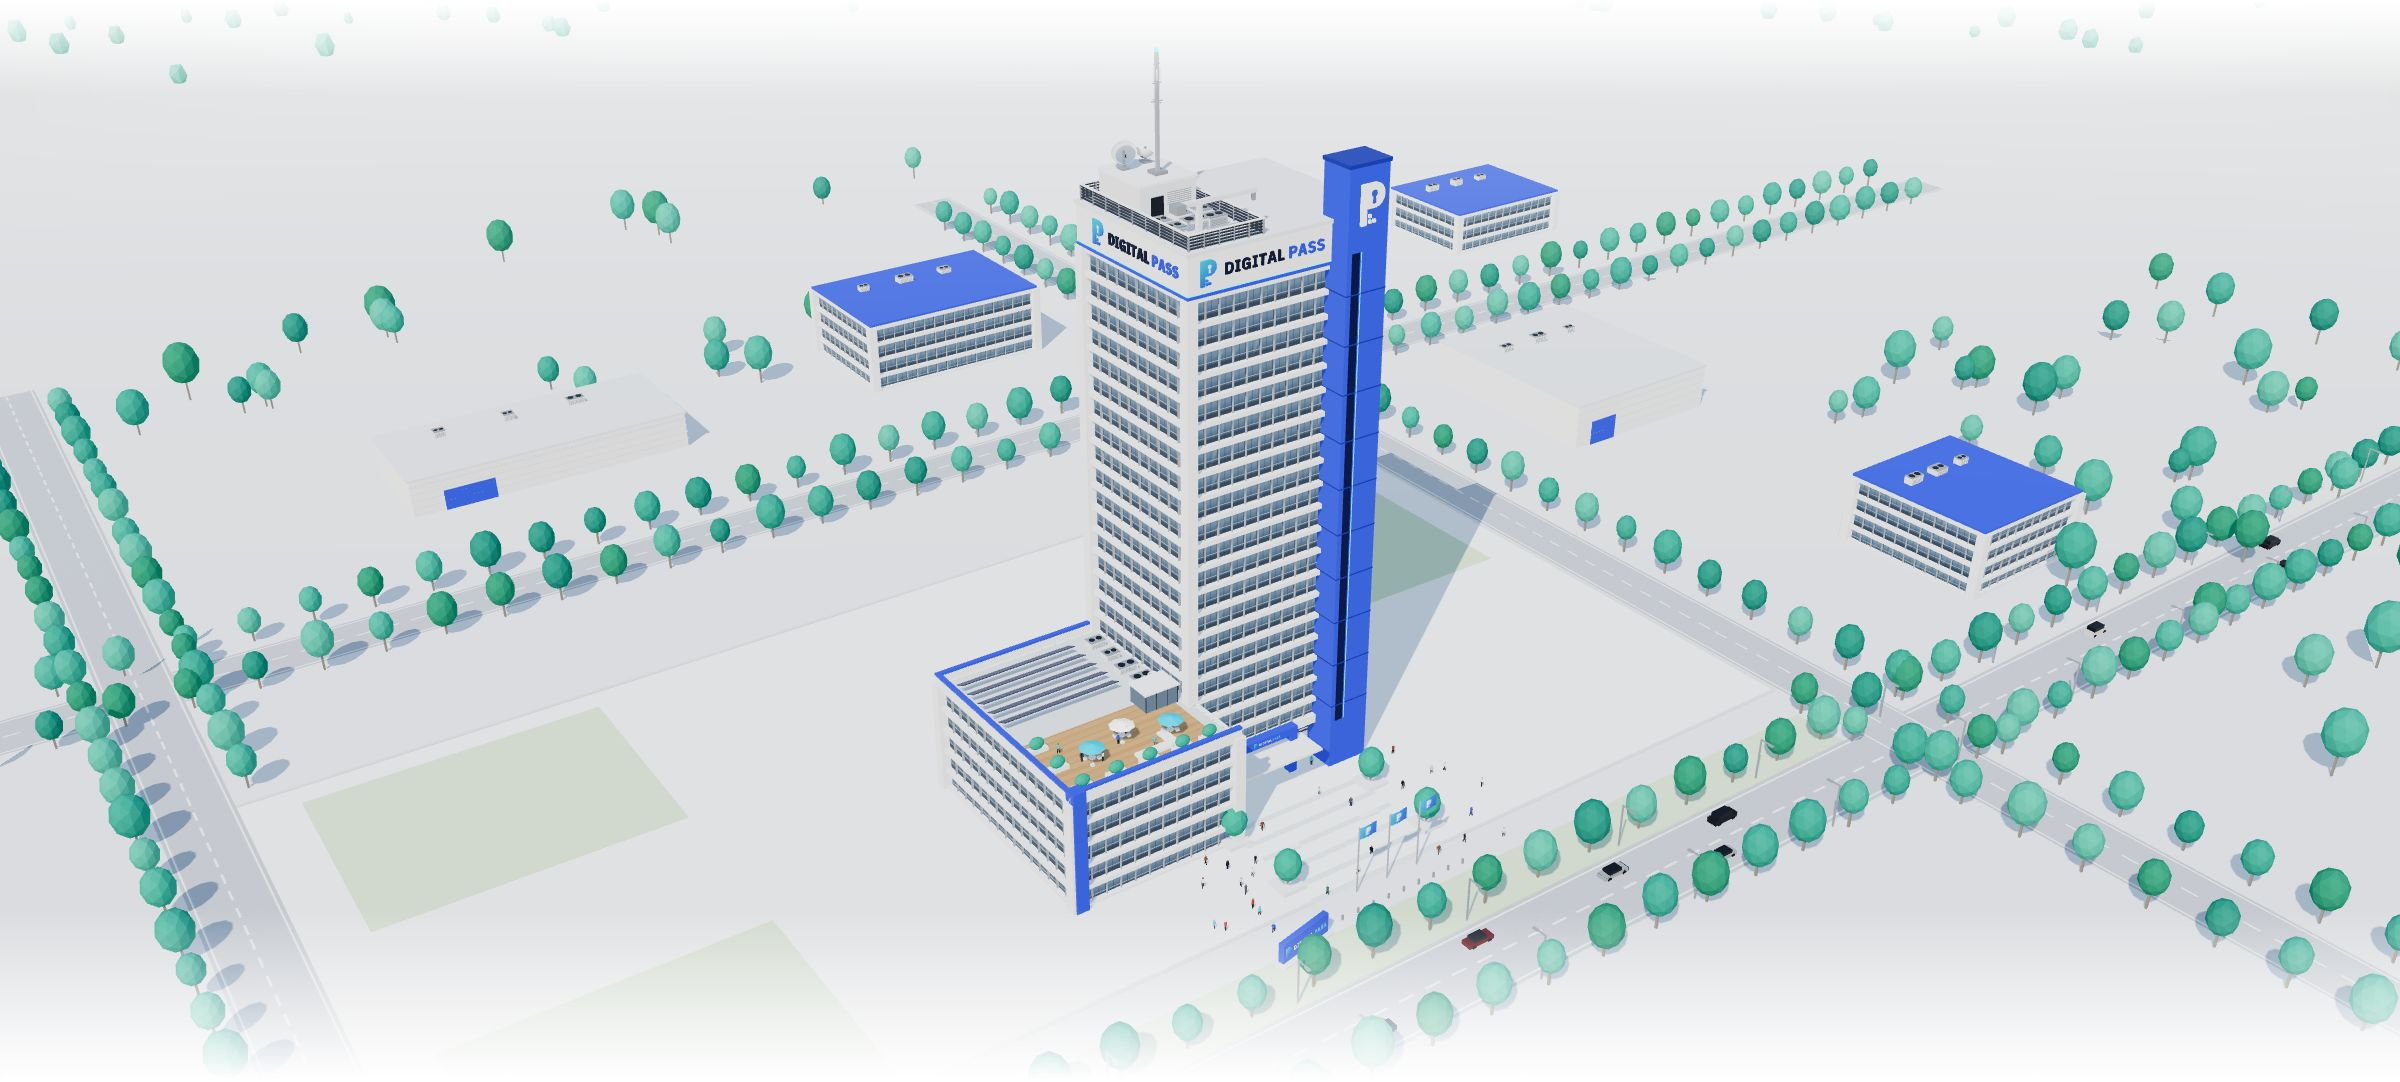
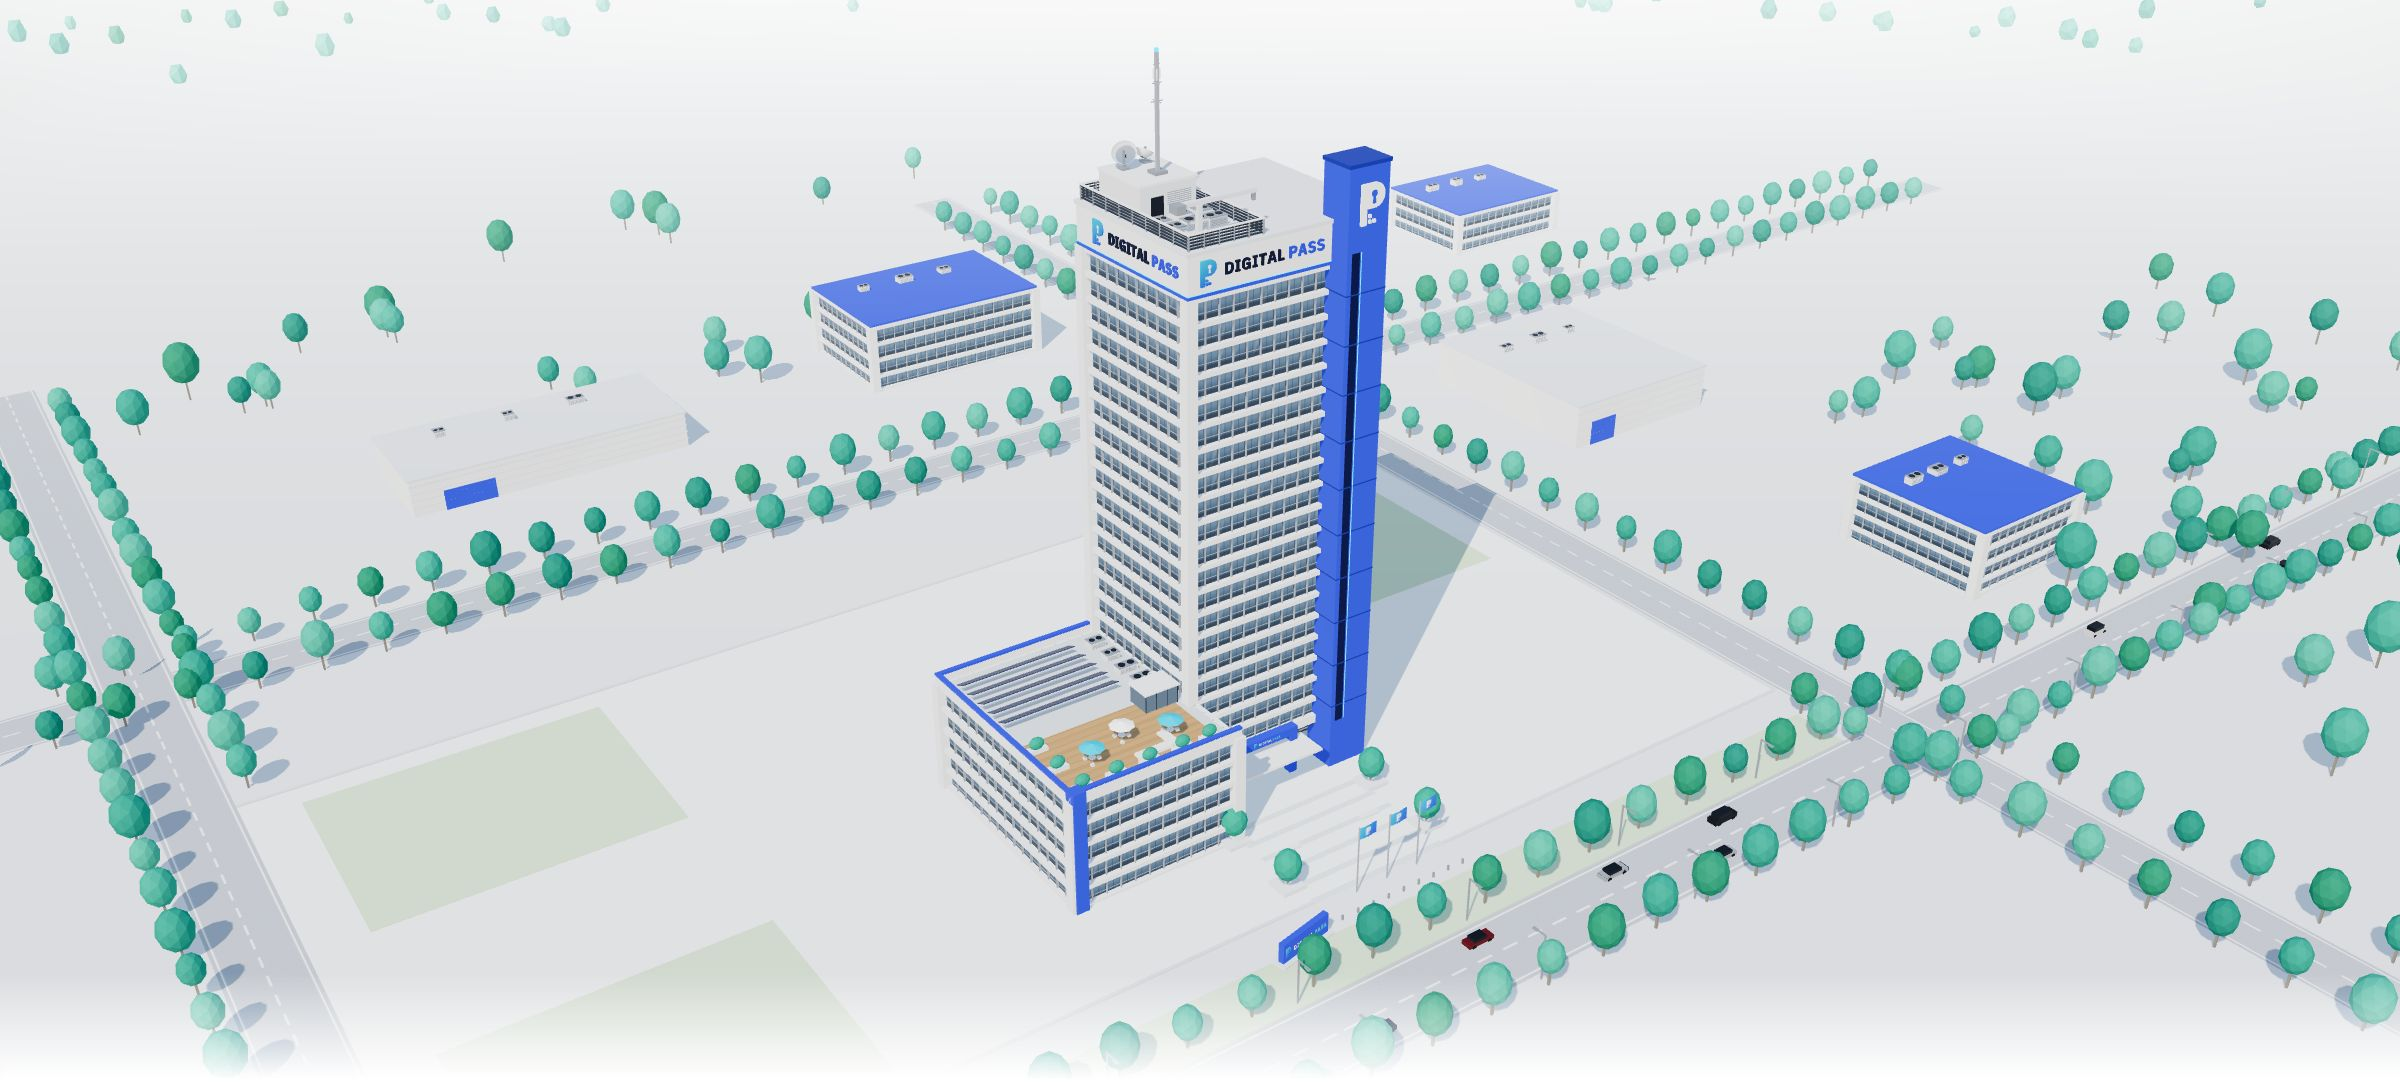
HQ model: solid from every side, no people, no veil over the top
Per the owner's screenshot (seen from behind, the spine top looked
see-through and the ground floor looked hollow):

- The tower is solid when seen from any side: a body behind the glass
  closed at the roof (the tour had left it hollow for its interiors), the
  lift spine as a closed blue volume (its back above the roof was
  missing), and the ground floor as a tinted glass base on all four sides
  with frames on the back and left like the front.
- No people anywhere in the model (setPeople).
- The white veil at the top of the stage is gone (it washed out a
  zoomed-in tower and looked like transparency); the far ground fades in
  the mist instead (closer mist), and the bottom fade is thinner.
- Zooming in aims a little higher so the whole tower stays in the frame.
- window.__hq.view() for screenshots and tests; new posters.

Claude-Session: https://claude.ai/code/session_01TGjpk8645mFjhXBmD6ejT9

diff --git a/assets/js/hq/site.js b/assets/js/hq/site.js
@@ -365,7 +365,7 @@ function campus(K, F, D, group, R, keepClear) {
 }
 
 /* ---------- the headquarters ---------- */
-function tower(K, KL, F, group, T, R) {
+function tower(K, KL, F, group, T, R, solid = false) {
   const { TW, TD, topY, fascia: fb } = HQ, S = HQ.spine, L = HQ.lift;
   floorsBlock(K, F, R, { w: TW, d: TD, floors: 20, y0: 8, cut: [S.x0, S.x1] });
 
@@ -467,6 +467,24 @@ function tower(K, KL, F, group, T, R) {
   const ps = 0.42; K.add(T.logoLight, M.logo, ex0 - T.logoLight.userData.width * ps / 2, 8.25 - T.logoLight.userData.height * ps / 2, TD / 2 + 2.01, { sx: ps, sy: ps, sz: ps });
   mb(K, 16, 0.45, 6, C.white, ex0, 6.2, TD / 2 + 3.6); lb(K, 14, 0.06, 0.25, C.led, ex0, 5.95, TD / 2 + 6.2);
   for (let k = 0; k < 4; k++) K.add(G.disc(), M.glow, ex0 - 5.4 + k * 3.6, 5.96, TD / 2 + 3.6, { rx: Math.PI / 2, sx: 0.22, sy: 0.22, color: 0xfff4dc, cast: false, receive: false });
+
+  // ---- solid (the model seen from outside, from every side): fill what the tour left hollow for its interiors ----
+  if (solid) {
+    const box = (x0, x1, y0, y1, z0, z1, mat) => {
+      const m = new THREE.Mesh(new THREE.BoxGeometry(x1 - x0, y1 - y0, z1 - z0), mat);
+      m.position.set((x0 + x1) / 2, (y0 + y1) / 2, (z0 + z1) / 2); m.receiveShadow = true; group.add(m);
+    };
+    // the body behind the glass, closed at the roof
+    box(-TW / 2 + 1, TW / 2 - 1, fb, HQ.deckY - 0.03, -TD / 2 + 1, TD / 2 - 1, std({ color: 0x9aa7b4, roughness: 0.6 }));   // behind the glass (0.6 in)
+    // the ground floor reads as a tinted glass base on all four sides, framed like the front
+    const lg = std({ color: 0x86a2bd, roughness: 0.08, metalness: 0.6, envMapIntensity: 1.3 });
+    box(lx0 + 0.02, lx1 - 0.1, 0.07, fb, lz0 + 0.02, lz1 - 0.1, lg); box(ax0 + 0.1, lx1 - 0.1, 0.07, fb, lz1 - 0.12, az - 0.02, lg);
+    for (let k = 0; k <= 10; k++) fr(0.14, fb, 0.22, lx0 + k * (lx1 - lx0) / 10, fb / 2, lz0 - 0.06);
+    for (let k = 0; k <= 8; k++) fr(0.22, fb, 0.14, lx0 - 0.06, fb / 2, lz0 + k * (lz1 - lz0) / 8);
+    for (const y of [3.05, fb - 0.1]) { fr(lx1 - lx0, 0.14, 0.22, lcx, y, lz0 - 0.06); fr(0.22, 0.14, lz1 - lz0, lx0 - 0.06, y, lcz); }
+    // the lift spine is a closed blue volume (seen from behind above the roof, too)
+    box(S.x0 + 0.04, S.x1 - 0.04, 0, sh - 0.04, S.z0 + 0.04, S.z1 - 0.04, std({ color: C.blue, roughness: 0.85 }));
+  }
   return leaves;
 }
 
@@ -525,14 +543,14 @@ function forecourt(K, group, T, R) {
 /* built in a few steps, yielding to the page in between so scrolling never stalls while the HQ is put together */
 /* plot: { x0, x1, z0, z1 } turns the campus into an architectural model on a plinth: no terrain, everything trimmed
    to the rectangle, a white base with a navy band and the logo on its front edge. */
-export async function buildSite({ brandGeo, windowSize = 2048, keepClear = [], plot = null, reach = 0, glass = false }) {
+export async function buildSite({ brandGeo, windowSize = 2048, keepClear = [], plot = null, reach = 0, glass = false, solid = false }) {
   const group = new THREE.Group(), R = rng(9), step = () => new Promise((r) => setTimeout(r, 0));
   const K = makeKit(), KL = makeKit({ cast: false, receive: false }), F = quadBatch(), D = quadBatch();
   if (plot) { setClip(plot); plinth(group, brandGeo, plot); }
   else { if (reach) setClip({ r: reach }); terrain(group, reach); }   // reach: nothing beyond it is built (it would be lost in the mist)
   await step();
   campus(K, F, D, group, R, keepClear); await step();
-  const leaves = tower(K, KL, F, group, brandGeo, rng(5)); await step();
+  const leaves = tower(K, KL, F, group, brandGeo, rng(5), solid); await step();
   wing(K, KL, F, group, rng(100));
   forecourt(K, group, brandGeo, rng(3)); await step();
   K.build(group); KL.build(group); await step();

diff --git a/assets/js/hq/model.js b/assets/js/hq/model.js
@@ -1,7 +1,7 @@
 /* Digital Pass HQ in its campus (the same ground as the tour: streets, trees, low buildings, hills), with no edges:
    the land fades into the page colour with distance and the canvas is transparent, so the scene sits inside the page.
    The camera orbits the tower; lights and shadows stay fixed, so the shadow map is drawn once. */
-import { THREE, setAniso, setTexScale, releaseCanvas, setLang, redrawText, loadBrand, logoGeometry, symbolGeometry, makeSky } from './core.js';
+import { THREE, setAniso, setTexScale, releaseCanvas, setLang, redrawText, loadBrand, logoGeometry, symbolGeometry, makeSky, setPeople } from './core.js';
 import { buildSite } from './site.js';
 
 const SKY = [[-90, '#d6dadd'], [-2, '#e4e7ea'], [0, '#f2f5f8'], [5, '#e9f0f7'], [15, '#d6e5f3'], [35, '#bcd5ef'], [65, '#a3c4ea'], [90, '#97bce7']];
@@ -43,7 +43,8 @@ export async function createModel({ canvas, mobile, width, height, dpr, lang = '
   brandGeo.logoLight = logoGeometry(brand, { cap: 1, depth: 0.12, light: true }); brandGeo.symbol = symbolGeometry(brand, { height: 1, depth: 0.045 });
   await tick();
   onStep('site');
-  const site = await buildSite({ brandGeo, windowSize: mobile ? 1024 : 2048, reach: 1250, glass: true });
+  setPeople(false);
+  const site = await buildSite({ brandGeo, windowSize: mobile ? 1024 : 2048, reach: 1250, glass: true, solid: true });
   scene.add(site.group);
   await tick();
 
@@ -65,11 +66,11 @@ export async function createModel({ canvas, mobile, width, height, dpr, lang = '
     camera.aspect = w / h;
     const vf = THREE.MathUtils.degToRad(camera.fov), hf = 2 * Math.atan(Math.tan(vf / 2) * camera.aspect);
     const d = (R * (camera.aspect > 1.2 ? 1.12 : 1)) / Math.sin(Math.min(vf, hf) / 2) * zoom;
-    const tx = target.x + (pan ? pan.x : 0), tz = target.z + (pan ? pan.z : 0);
-    camera.position.set(tx + d * Math.sin(polar) * Math.sin(az), target.y + d * Math.cos(polar), tz + d * Math.sin(polar) * Math.cos(az));
-    camera.lookAt(tx, target.y, tz);
+    const tx = target.x + (pan ? pan.x : 0), tz = target.z + (pan ? pan.z : 0), ty = target.y + Math.max(0, 1 - zoom) * 22;   // close up: aim a little higher, the whole tower stays in the frame
+    camera.position.set(tx + d * Math.sin(polar) * Math.sin(az), ty + d * Math.cos(polar), tz + d * Math.sin(polar) * Math.cos(az));
+    camera.lookAt(tx, ty, tz);
     camera.near = Math.max(1.5, d * 0.08);
-    scene.fog.near = d + 60; scene.fog.far = d + 1000;                                // the mist keeps its distance from the camera
+    scene.fog.near = d + 40; scene.fog.far = d + 650;                                // the mist keeps its distance from the camera
     camera.updateProjectionMatrix();
     if (first) onStep('first render');
     renderer.render(scene, camera);

diff --git a/assets/js/hq-viewer.js b/assets/js/hq-viewer.js
@@ -160,7 +160,7 @@ function init() {
     try {
       size();
       dpr = +params.get('dpr') || Math.min(window.devicePixelRatio || 1, mobile ? 1.5 : 1.75);
-      const { createModel } = await import('./hq/model.js?v=m5');
+      const { createModel } = await import('./hq/model.js?v=m6');
       model = await createModel({ canvas, mobile, width: w, height: h, dpr, lang: lang(), onStep: (x) => dbg('model ' + x) });
       canvas.addEventListener('webglcontextlost', (e) => { e.preventDefault(); dbg('CONTEXT LOST'); fail(); });
       s.d = model.render(s.az, s.pol, s.zoom, { x: s.px, z: s.pz }) || s.d;
@@ -184,5 +184,9 @@ function init() {
     if (document.hidden) { guard(false); } else { if (model || loading) guard(true); dirty = true; kick(); }
   });
   new MutationObserver(() => { if (model) { model.setLang(lang()); dirty = true; kick(); } }).observe(root, { attributes: true, attributeFilter: ['lang'] });
-  window.__hq = { state: s, get ready() { return !!model; }, get engaged() { return engaged; }, info: () => model && { ...model.renderer.info.render, textures: model.renderer.info.memory.textures, geometries: model.renderer.info.memory.geometries } };
+  window.__hq = {   // tests and screenshots
+    state: s, get ready() { return !!model; }, get engaged() { return engaged; },
+    view: (az, pol, zoom = 1, px = 0, pz = 0) => { Object.assign(s, { az, pol, zoom, px, pz, goal: null, vAz: 0, vPol: 0, lastInput: performance.now() + 1e9 }); dirty = true; kick(); },
+    info: () => model && { ...model.renderer.info.render, textures: model.renderer.info.memory.textures, geometries: model.renderer.info.memory.geometries }
+  };
 }

diff --git a/index.html b/index.html
@@ -27,7 +27,7 @@
   <link href="https://fonts.googleapis.com/css2?family=IBM+Plex+Mono:wght@400;500&family=IBM+Plex+Sans+Arabic:wght@400;500;600;700&family=IBM+Plex+Sans:wght@700&family=Inter:wght@400;500;600;700&display=swap" rel="stylesheet">
 
   <link rel="stylesheet" href="assets/css/style.css?v=20261111d">
-  <link rel="stylesheet" href="assets/css/hq.css?v=m5">
+  <link rel="stylesheet" href="assets/css/hq.css?v=m6">
   <script>document.documentElement.classList.add('js');</script>
 
   <!-- Structured data for search engines. If the phone number changes, update it here too (and in assets/js/config.js). -->
@@ -739,6 +739,6 @@
 <script src="assets/js/config.js?v=20261111d"></script>
 <script src="assets/js/i18n.js?v=20261116n"></script>
 <script src="assets/js/main.js?v=20261111d"></script>
-<script type="module" src="assets/js/hq-viewer.js?v=m5"></script>
+<script type="module" src="assets/js/hq-viewer.js?v=m6"></script>
 </body>
 </html>

diff --git a/assets/css/hq.css b/assets/css/hq.css
@@ -9,9 +9,10 @@
   position: relative; isolation: isolate; height: clamp(420px, 72vh, 820px);
   width: 100vw; margin-inline: calc(50% - 50vw); margin-top: clamp(4px, 1vw, 16px);
 }
-.hq-fade { /* the land melts into the page above and below: no edge anywhere */
-  position: absolute; z-index: 2; inset: 0; pointer-events: none;
-  background: linear-gradient(180deg, var(--white) 0%, rgba(255,255,255,0) 9%, rgba(255,255,255,0) 84%, var(--white) 100%);
+.hq-fade { /* the near ground melts into the next section (the far ground fades in the mist, so the top needs no veil
+   that would wash out a zoomed-in tower) */
+  position: absolute; z-index: 2; inset: auto 0 0 0; height: 10%; pointer-events: none;
+  background: linear-gradient(180deg, rgba(255,255,255,0) 0%, var(--white) 100%);
 }
 .hq-stage::before { /* the picture of the model: shown while loading, kept as the fallback */
   content: ""; position: absolute; inset: 0; z-index: 0;

diff --git a/assets/js/hq/core.js b/assets/js/hq/core.js
@@ -405,7 +405,10 @@ const PG = {
   arm: () => geo('p-arm', () => new THREE.CylinderGeometry(0.052, 0.045, 0.62, 6).translate(0, -0.31, 0)),
   head: () => geo('p-head', () => new THREE.SphereGeometry(0.115, 10, 8))
 };
+let PEOPLE = true;
+export const setPeople = (v) => { PEOPLE = v; };   // the model on the homepage has no people
 export function addPerson(K, x, y, z, seed, { ry, walk } = {}) {
+  if (!PEOPLE) return;
   const R = rng(seed * 7919 + 13);
   const pick = (a) => a[Math.floor(R() * a.length)];
   const top = pick(TOPS), pants = pick(PANTS), skin = pick(SKIN);
